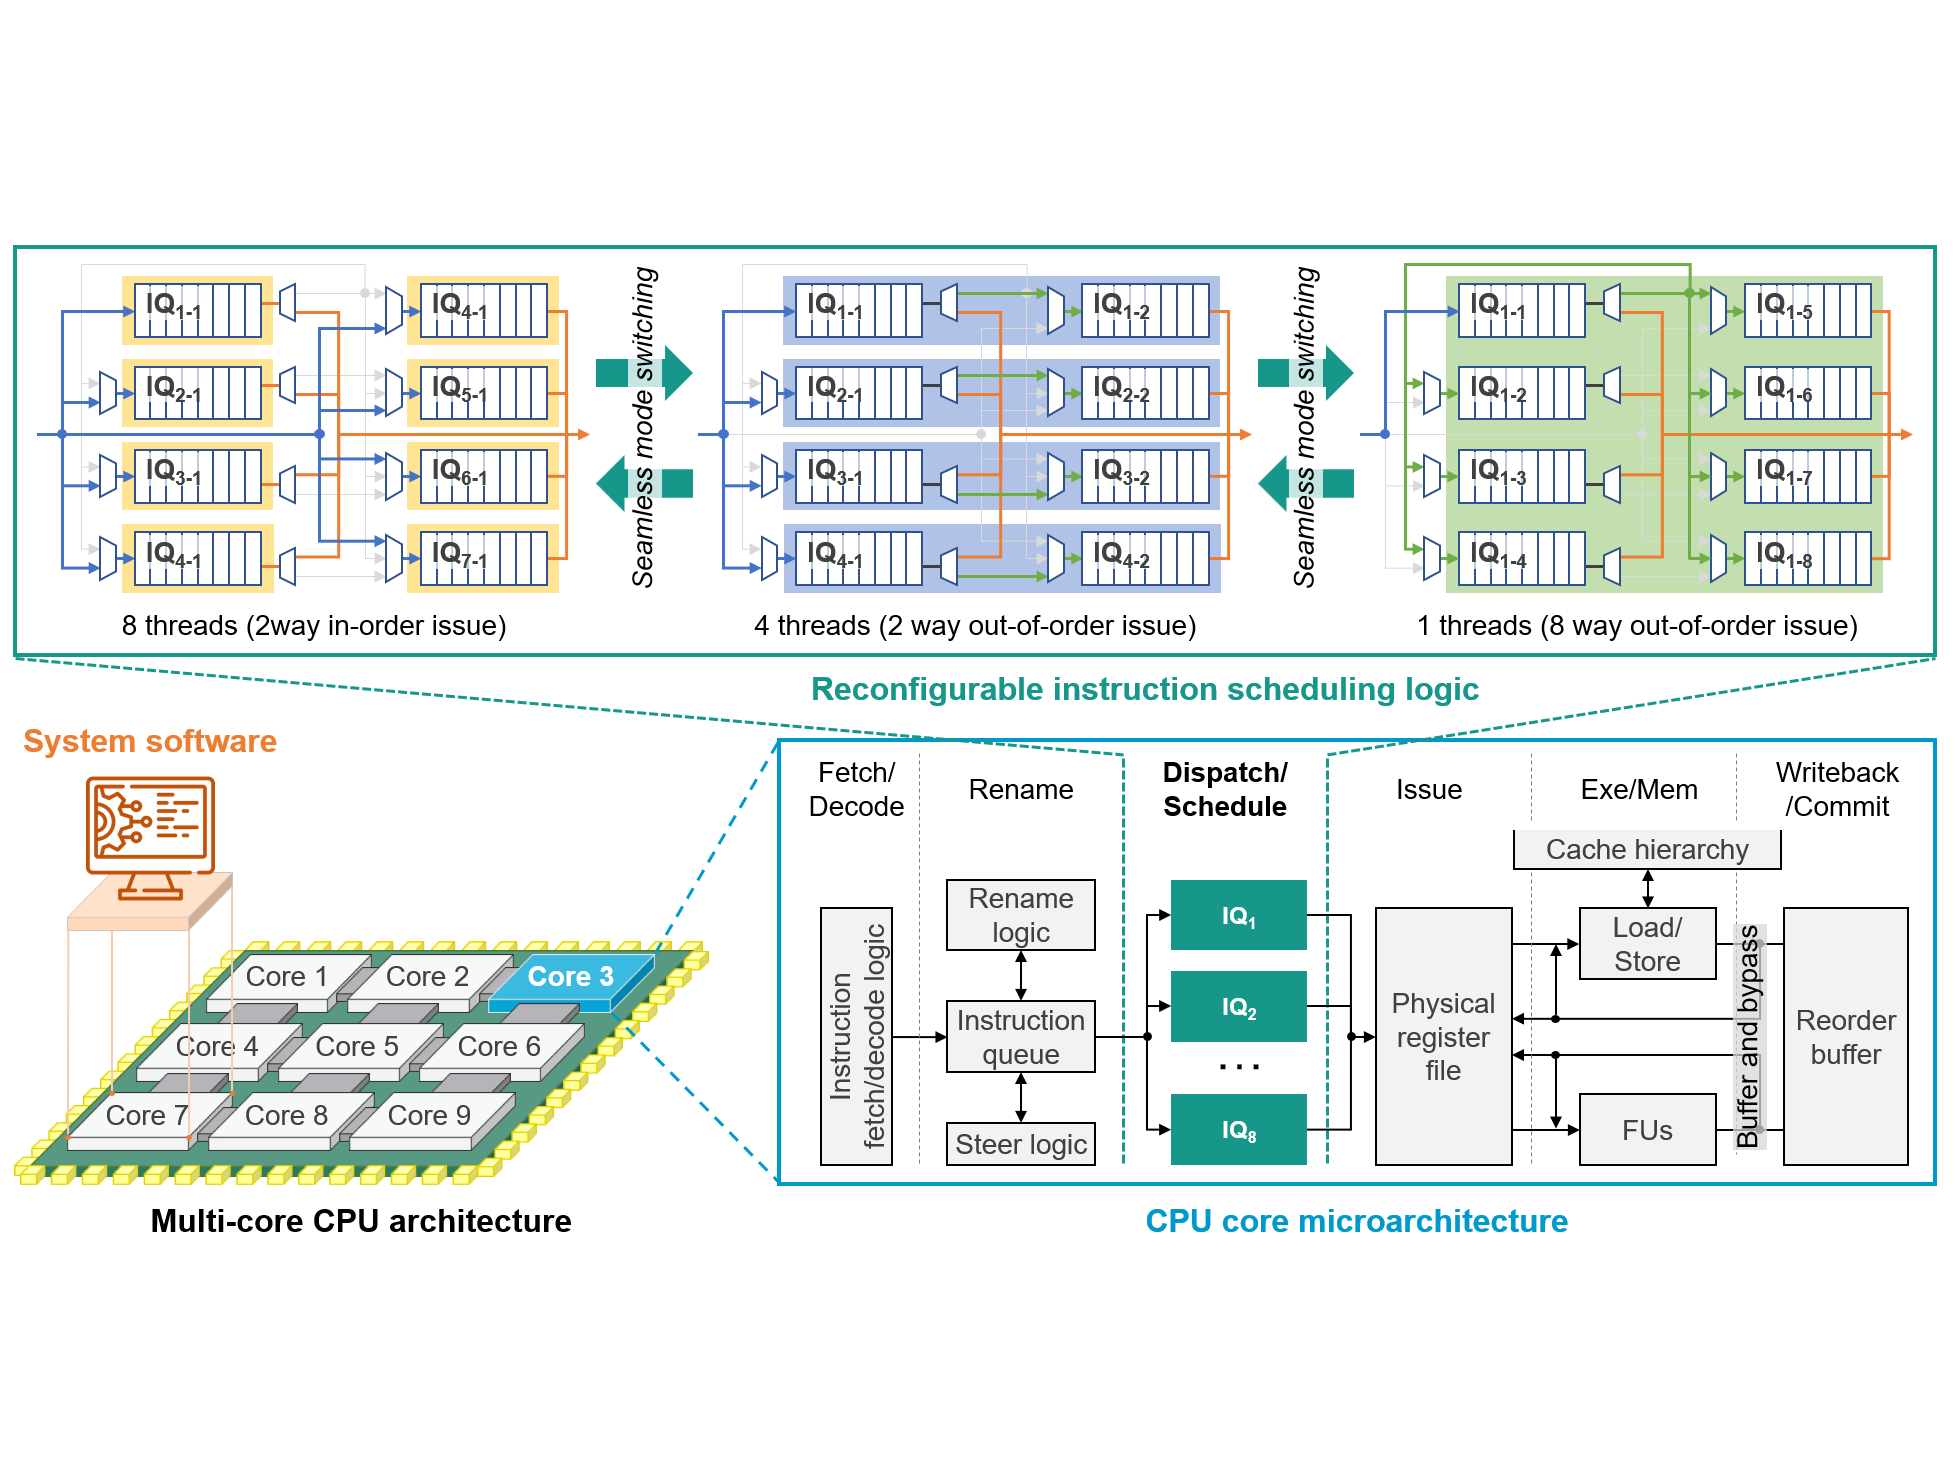
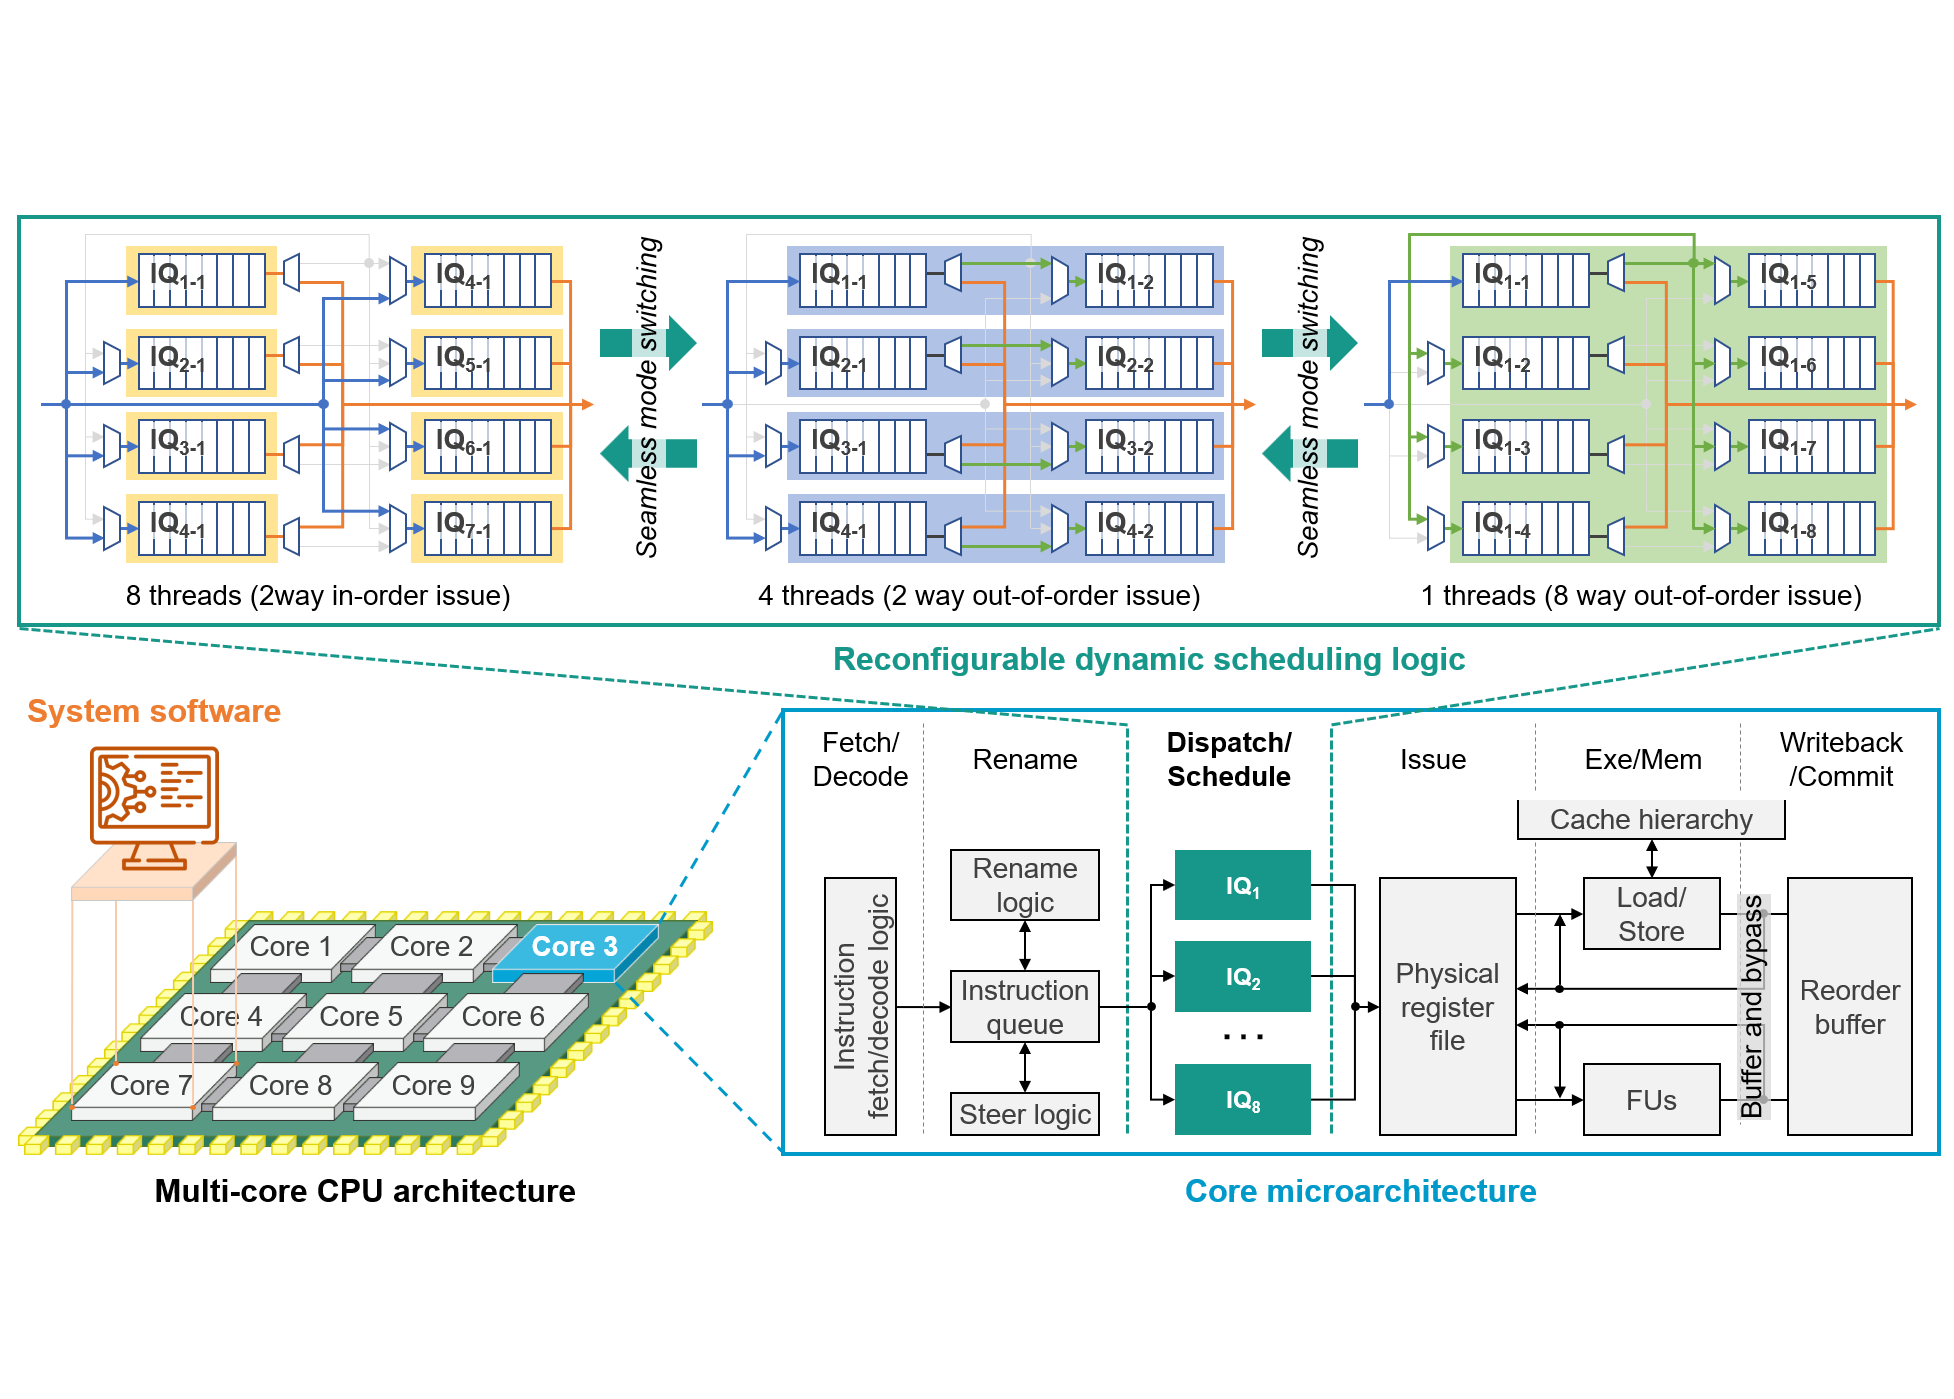
Deploying to gh-pages from @ ipoom-jeong/gaudi-lab@df8ee81b4f963901a2b1324e45dcc915bd143ac1 🚀

Changed region(s): [[0.0, 0.1537, 0.999, 0.8606]]

diff --git a/2019/01/07/example-post-1.html b/2019/01/07/example-post-1.html
@@ -62,10 +62,10 @@
 
   <meta name="author" content="sarah-johnson">
   <meta property="og:type" content="article">
-  <meta property="og:updated_time" content="2024-08-23T12:15:12+00:00">
+  <meta property="og:updated_time" content="2024-08-23T12:20:36+00:00">
   <meta property="article:published_time" content="2019-01-07T00:00:00+00:00">
-  <meta property="article:modified_time" content="2024-08-23T12:15:12+00:00">
-  <meta name="revised" content="2024-08-23T12:15:12+00:00">
+  <meta property="article:modified_time" content="2024-08-23T12:20:36+00:00">
+  <meta name="revised" content="2024-08-23T12:20:36+00:00">
 
 
 <script type="application/ld+json">
@@ -75,7 +75,7 @@
       "@type": "BlogPosting",
       "author": { "@type": "Person", "name": "Example post 1" },
       "datePublished": "2019-01-07T00:00:00+00:00",
-      "dateModified": "2024-08-23T12:15:12+00:00",
+      "dateModified": "2024-08-23T12:20:36+00:00",
     
     "name": "Example post 1",
     "description": "General-Purpose Architectures with Unleashed Design Innovations. description",

diff --git a/2021/09/30/example-post-2.html b/2021/09/30/example-post-2.html
@@ -62,10 +62,10 @@
 
   <meta name="author" content="jane-smith">
   <meta property="og:type" content="article">
-  <meta property="og:updated_time" content="2024-08-23T12:15:12+00:00">
+  <meta property="og:updated_time" content="2024-08-23T12:20:36+00:00">
   <meta property="article:published_time" content="2021-09-30T00:00:00+00:00">
-  <meta property="article:modified_time" content="2024-08-23T12:15:12+00:00">
-  <meta name="revised" content="2024-08-23T12:15:12+00:00">
+  <meta property="article:modified_time" content="2024-08-23T12:20:36+00:00">
+  <meta name="revised" content="2024-08-23T12:20:36+00:00">
 
 
 <script type="application/ld+json">
@@ -75,7 +75,7 @@
       "@type": "BlogPosting",
       "author": { "@type": "Person", "name": "Example post 2" },
       "datePublished": "2021-09-30T00:00:00+00:00",
-      "dateModified": "2024-08-23T12:15:12+00:00",
+      "dateModified": "2024-08-23T12:20:36+00:00",
     
     "name": "Example post 2",
     "description": "General-Purpose Architectures with Unleashed Design Innovations. description",

diff --git a/2023/02/23/example-post-3.html b/2023/02/23/example-post-3.html
@@ -62,10 +62,10 @@
 
   <meta name="author" content="john-doe">
   <meta property="og:type" content="article">
-  <meta property="og:updated_time" content="2024-08-23T12:15:12+00:00">
+  <meta property="og:updated_time" content="2024-08-23T12:20:36+00:00">
   <meta property="article:published_time" content="2023-02-23T00:00:00+00:00">
-  <meta property="article:modified_time" content="2024-08-23T12:15:12+00:00">
-  <meta name="revised" content="2024-08-23T12:15:12+00:00">
+  <meta property="article:modified_time" content="2024-08-23T12:20:36+00:00">
+  <meta name="revised" content="2024-08-23T12:20:36+00:00">
 
 
 <script type="application/ld+json">
@@ -75,7 +75,7 @@
       "@type": "BlogPosting",
       "author": { "@type": "Person", "name": "Example post 3" },
       "datePublished": "2023-02-23T00:00:00+00:00",
-      "dateModified": "2024-08-23T12:15:12+00:00",
+      "dateModified": "2024-08-23T12:20:36+00:00",
     
     "name": "Example post 3",
     "description": "General-Purpose Architectures with Unleashed Design Innovations. description",

diff --git a/research/index.html b/research/index.html
@@ -493,7 +493,7 @@
     
 <h3 id="cpu-core-microarchitectures-and-multi-core-architectures"><strong>CPU Core Microarchitectures and Multi-core Architectures</strong></h3>
 
-<p>The Central Processing Unit (CPU) plays a crucial role in a system by running applications and system software, managing system resources, and interacting with I/O devices, among other functions. We are</p>
+<p>The Central Processing Unit (CPU) plays a crucial role in a system by running applications and system software, managing system resources, and interacting with I/O devices, among other functions. We are exploring advanced microarchitectural techniques (<em>e.g.</em>, dynamic scheduling and speculation) and multi-core architectures (<em>e.g.</em>, heterogeneous multi-core and simultaneous multi-threading architectures) to improve performance and energy efficiency of the CPU.</p>
 
 
   </div>
